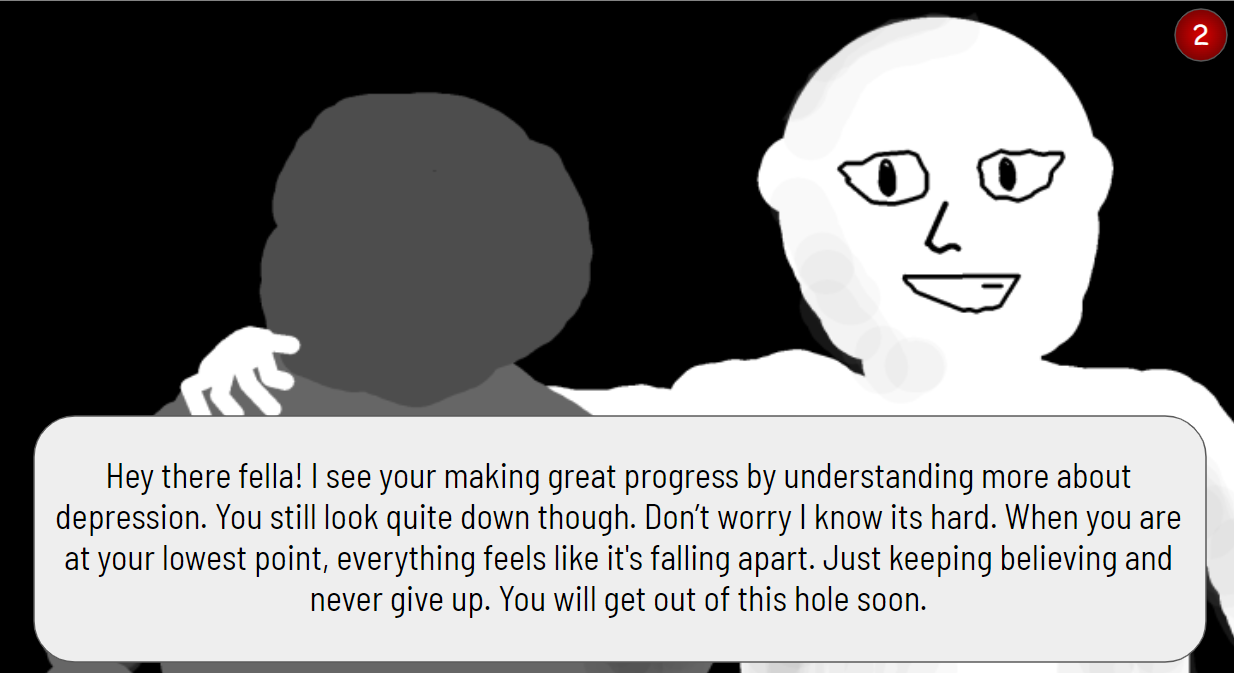
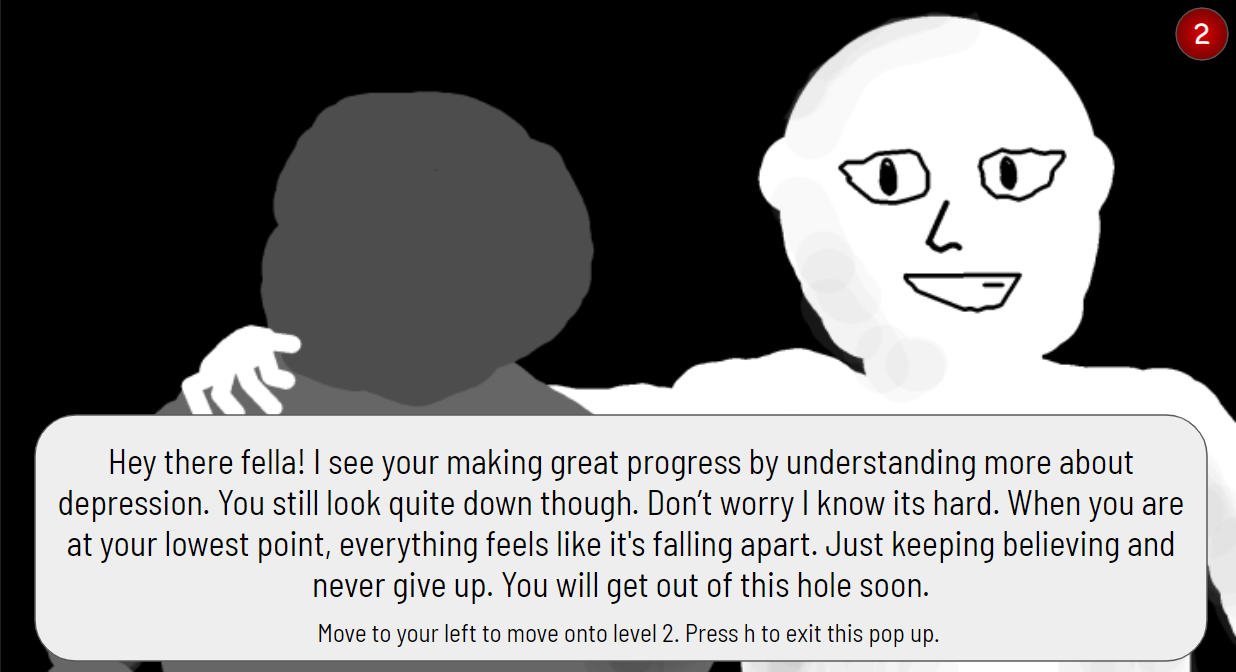
Door

diff --git a/src/Door.java b/src/Door.java
@@ -122,7 +122,7 @@ public class Door extends CollidableObject implements Interactable {
             off = true;
         }
         if(displayTips && !off) {
-            ((ImageView) node).setImage(new Image("assets/BrotherTips Screens/BrotherTips1.png"));
+            ((ImageView) node).setImage(new Image("assets/BrotherTips Screens/BrotherTips2.png"));
             pos = Game.toWorld(new Vector(25, 20));
             Game.player.getNode().setVisible(false);
             Player.playerMoving = false;

diff --git a/out/production/JavaISP/assets/test.py b/out/production/JavaISP/assets/test.py
@@ -1,0 +1,8 @@
+import sys
+type = sys.argv[1]
+mypath = "assets/"+type+"s"
+from os import listdir
+from os.path import isfile, join
+onlyfiles = [f for f in listdir(mypath) if isfile(join(mypath, f))]
+for f in onlyfiles:
+    print("textures.put(\""+type.capitalize()+":"+f.split('.')[0]+"\", new Image(\""+mypath+"/"+f+"\"));")
